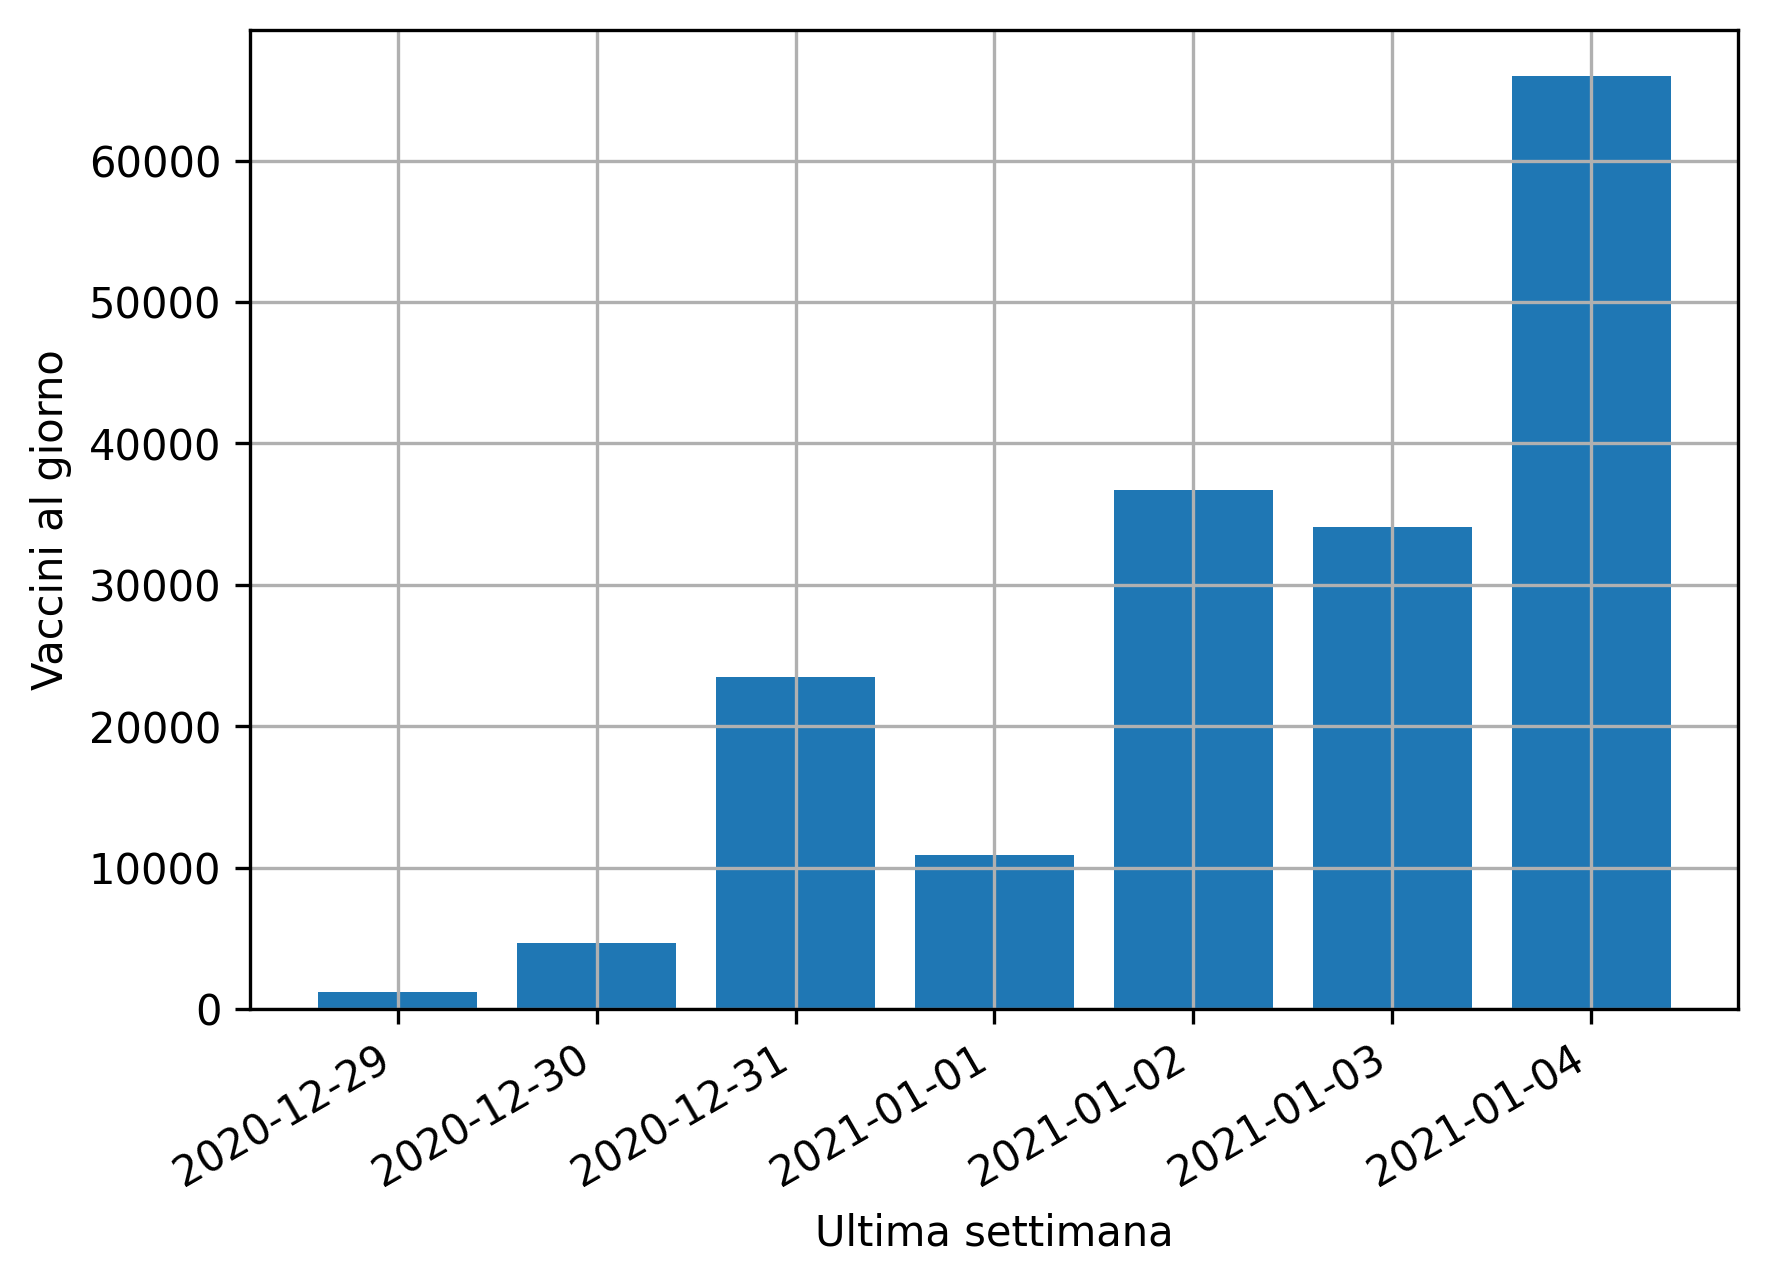
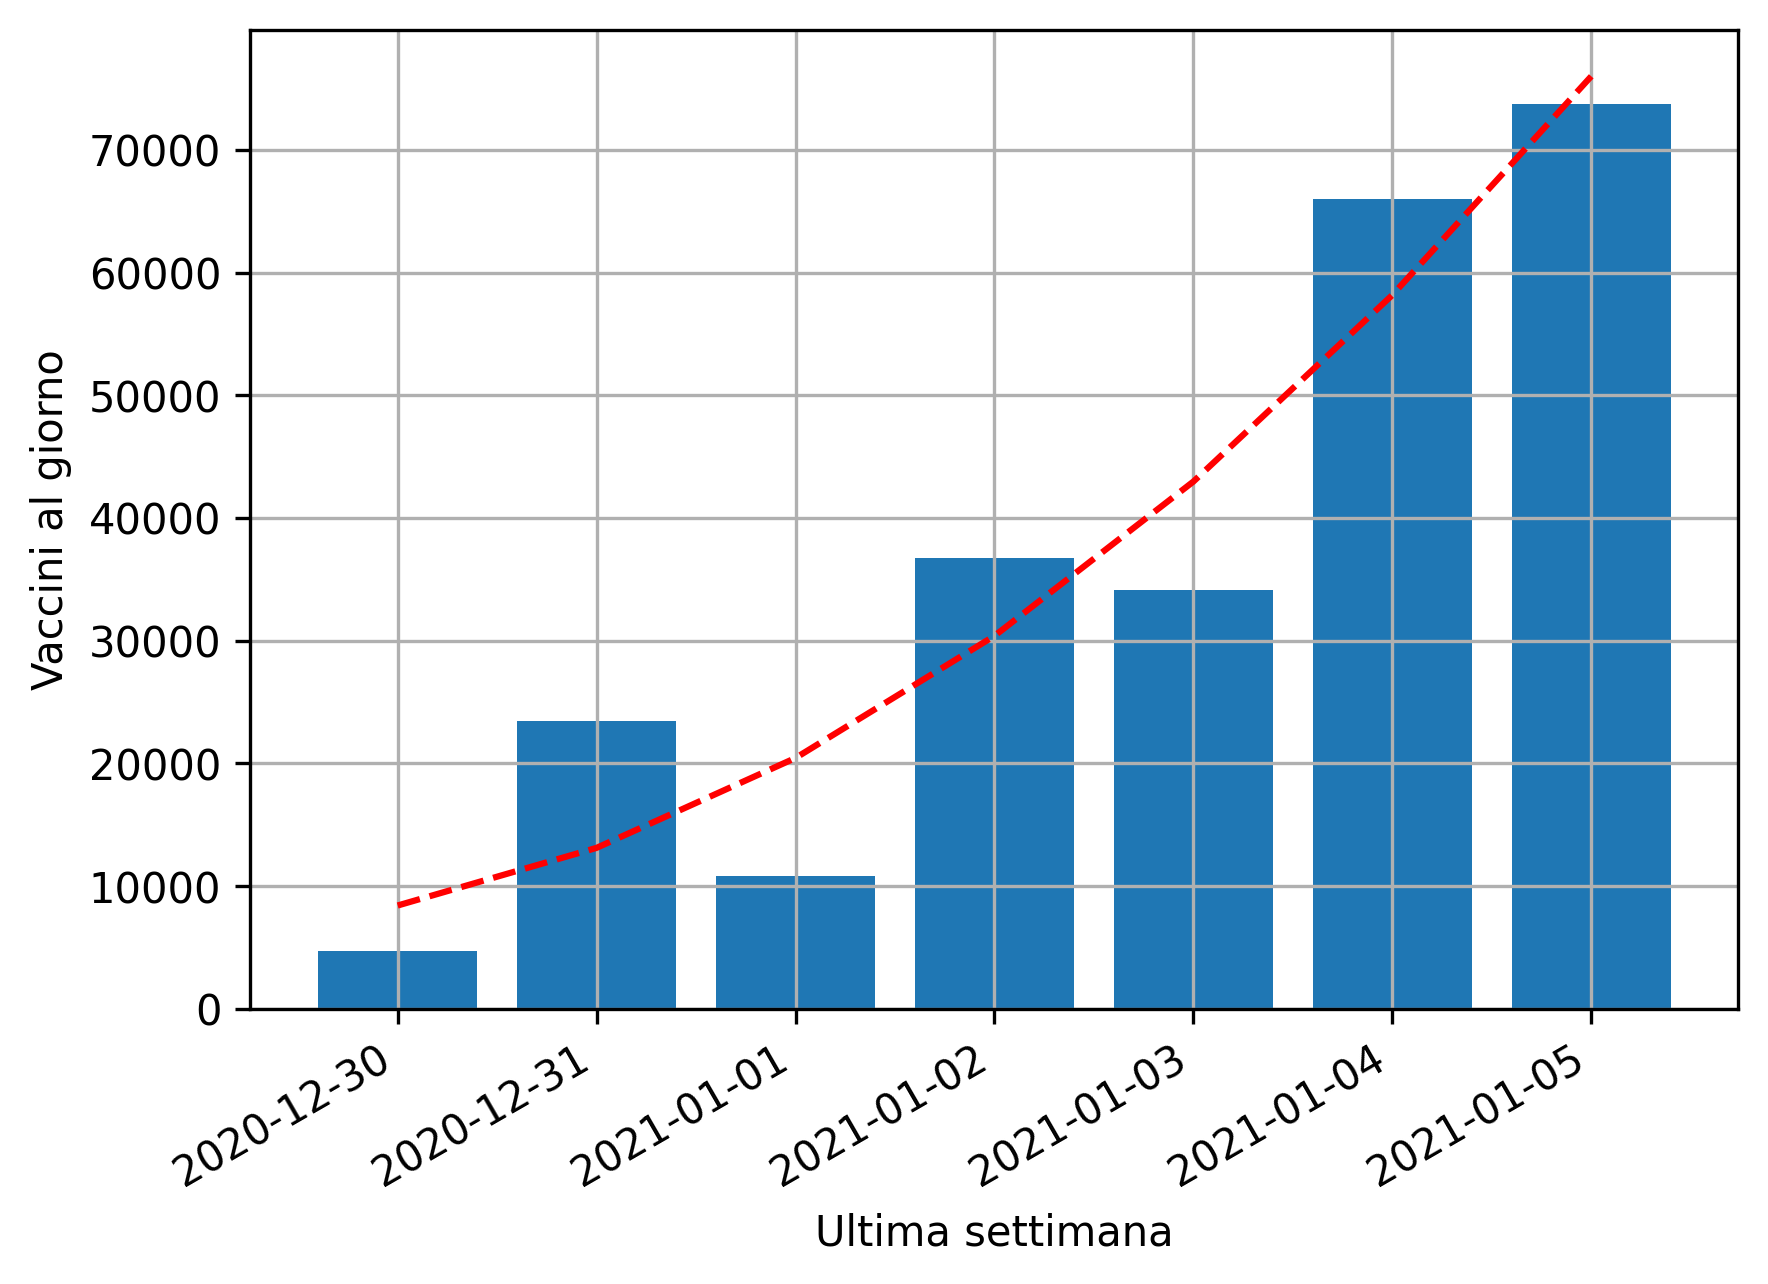
Add trendline and fix template

diff --git a/index.html b/index.html
@@ -19,7 +19,7 @@
             font-size: 200%;
             font-weight: bold;
             position: relative;
-            top: -5px;
+            top: -6px;
             margin-bottom: -4px;
         }
 	</style>
@@ -43,29 +43,29 @@
 		<div class="text-center">
 			In Italia ci sono <br />
 			<span class="text-big">
-185748
+259481
 				persone vaccinate.</span> <br />
 			Ne abbiamo vaccinate <br />
 			<span class="text-big">
-177011
+249567
 				nell'ultima settimana,</span> <br />
 			con un ritmo di <br />
 			<span class="text-big">
 				
-25287
+35652
 				
 				vaccini al giorno.</span> <br />
-			Continuando di questo passo, raggiungeremo l'immunità di gregge il: <br />
+			Continuando di questo passo, raggiungeremo l'immunità di gregge il <br />
 			<span class="text-bigger">
-30/03/2026
+20/09/2024
 				<span class="d-none d-sm-inline">
-15:56:23
+09:50:09
 				</span>
 			</span> <br />
-			<span style="position: relative; top: -4px">ovvero fra</span> <br />
-			<span class="text-bigger" style="position: relative; top: -12px;">
-1909
-				giorni
+			<span style="position: relative; top: -5px">ovvero fra</span> <br />
+			<span class="text-bigger" style="position: relative; top: -13px;">
+1354
+				giorni.
 			</span>
 		</div>
 		<img alt="Grafico vaccini ultima settimana" src="plot.png" class="img-fluid">

diff --git a/template.html b/template.html
@@ -18,7 +18,7 @@
             font-size: 200%;
             font-weight: bold;
             position: relative;
-            top: -5px;
+            top: -6px;
             margin-bottom: -4px;
         }
 	</style>
@@ -54,17 +54,17 @@
 				<!-- vaccinesPerDay -->
 				
 				vaccini al giorno.</span> <br />
-			Continuando di questo passo, raggiungeremo l'immunità di gregge il: <br />
+			Continuando di questo passo, raggiungeremo l'immunità di gregge il <br />
 			<span class="text-bigger">
 				<!-- hitDate -->
 				<span class="d-none d-sm-inline">
 				<!-- hitHour -->
 				</span>
 			</span> <br />
-			<span style="position: relative; top: -4px">ovvero fra</span> <br />
-			<span class="text-bigger" style="position: relative; top: -12px;">
+			<span style="position: relative; top: -5px">ovvero fra</span> <br />
+			<span class="text-bigger" style="position: relative; top: -13px;">
 				<!-- daysRemaining -->
-				giorni
+				giorni.
 			</span>
 		</div>
 		<img alt="Grafico vaccini ultima settimana" src="plot.png" class="img-fluid">

diff --git a/main.py b/main.py
@@ -1,8 +1,9 @@
 import io
-from datetime import datetime as dt, timedelta as td
+from datetime import timedelta as td
 
 import matplotlib.dates as mdates
 import matplotlib.pyplot as plt
+import numpy as np
 import pandas as pd
 import requests
 
@@ -21,12 +22,13 @@ df.index = pd.to_datetime(
     format="%Y-%m-%d",
 )
 df = df.loc[df["area"] == "ITA"]
-df = df[:-1]  # Ignore the last day because it's often incomplete
+df["totale"] = pd.to_numeric(df["totale"])
+# df = df[:-1]  # Ignore the last day because it's often incomplete
 
 lastWeekData = df.loc[df.index > df.index[-1] - td(days=7)]
 vaccinesPerDayAverage = sum(lastWeekData["totale"]) / 7
 remainingDays = HIT / vaccinesPerDayAverage
-hitDate = dt.now() + td(days=remainingDays)
+hitDate = df.index[-1] + td(days=remainingDays)
 
 # Generate plot
 plt.ylabel("Vaccini al giorno")
@@ -36,6 +38,10 @@ plt.gca().xaxis.set_major_formatter(mdates.DateFormatter('%Y-%m-%d'))
 plt.gca().xaxis.set_major_locator(mdates.AutoDateLocator())
 plt.gcf().autofmt_xdate()
 plt.bar(lastWeekData.index, height=lastWeekData["totale"])
+# Trendline
+z = np.polyfit(range(0, 7), lastWeekData["totale"], 2)
+p = np.poly1d(z)
+plt.plot(lastWeekData.index, p(range(0, 7)), "r--")
 plt.savefig("plot.png", dpi=300, bbox_inches='tight')
 
 # Generate template
